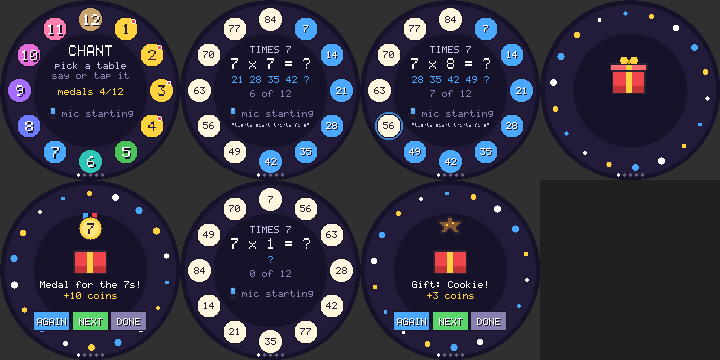
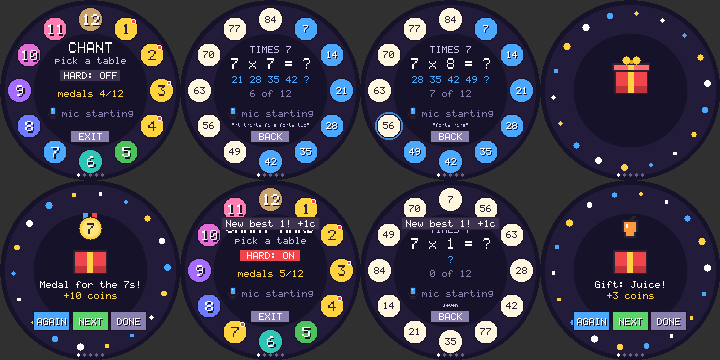
Chant: answers always in order, with a HARD switch that shuffles them; BACK and EXIT buttons

diff --git a/components/orbling/pet_engine.cpp b/components/orbling/pet_engine.cpp
@@ -3663,6 +3663,7 @@ static const int CH_DROP_MS = 600, CH_OPEN_MS = 1300, CH_BUTTONS_MS = 2200;  // 
 static const int CH_BTN_Y = 282, CH_BTN_W = 70, CH_BTN_H = 36;
 static const int CH_BTN_X[3] = {103, 180, 257};  // again, next, done
 static const int CH_MIC_Y = 214;
+static const int CH_QUIT_Y = 272, CH_HARD_Y = 150;  // the exit / back pill, and the hard switch on the picker
 // Treats a gift can hold (a medal comes first, once per table).
 static const uint8_t CH_TREATS[] = {IT_CAKE, IT_JUICE, IT_CANDY, IT_DONUT, IT_SODA, IT_ASTRO, IT_STAR_COOKIE, IT_PIZZA};
 
@@ -3828,7 +3829,7 @@ void PetEngine::chant_begin(int table) {
   ch_ok_ms_ = now_ ? now_ : 1;
   ch_wrong_ = -1;
   for (int k = 0; k < 12; k++) ch_slot_[k] = (uint8_t) (k + 1);
-  if (s_.chant_medals & (1u << (table - 1))) {  // learnt once: shuffle, so the next one has to be remembered
+  if (ch_hard_) {  // hard: shuffled, so the next one has to be remembered
     for (int k = 11; k > 0; k--) {
       int j = (int) (rnd() % (uint32_t) (k + 1));
       uint8_t t = ch_slot_[k];
@@ -3889,7 +3890,22 @@ void PetEngine::chant_press(int x, int y) {
     show_toast(voice_enabled() ? "Mic on" : "Mic off", 1200);
     return;
   }
+  if (ch_state_ != 2 && abs(x - 180) < 48 && abs(y - CH_QUIT_Y) < 20) {
+    if (ch_state_ == 1) {  // back to the table picker
+      ch_state_ = 0;
+      ch_epoch_++;
+    } else if (run_score_ > 0) {
+      finish_game();  // tables were done: coins and the prize stand
+    } else {
+      overlay_ = OV_NONE;
+    }
+    return;
+  }
   if (ch_state_ == 0) {
+    if (abs(x - 180) < 70 && abs(y - CH_HARD_Y) < 17) {
+      ch_hard_ = !ch_hard_;
+      return;
+    }
     for (int k = 1; k <= 12; k++) {
       int bx, by;
       tt_pos((float) k, bx, by);
@@ -3989,12 +4005,18 @@ void PetEngine::draw_chant(Canvas &c, uint32_t now) {
         circle(c, bx + 15, by - 15, 3, 0xF0454B);
       }
     }
-    text(c, 180, 90, "CHANT", 3, 0xFFFFFF);
-    text(c, 180, 124, "pick a table", 2, 0xC9C2E8, true, false);
-    text(c, 180, 144, "then say it!", 2, 0x8A80B0, true, false);
+    text(c, 180, 84, ch_hard_ ? "CHANT HARD" : "CHANT", 3, 0xFFFFFF);
+    text(c, 180, 114, "pick a table", 2, 0xC9C2E8, true, false);
+    // The hard switch: answers in order (off) or shuffled round the circle (on).
+    rect(c, 180 - 62, CH_HARD_Y - 13, 124, 26, 0x1A1426);
+    rect(c, 180 - 60, CH_HARD_Y - 11, 120, 22, ch_hard_ ? 0xF0454B : 0x3D3350);
+    text(c, 180, CH_HARD_Y - 7, ch_hard_ ? "HARD: ON" : "HARD: OFF", 2, 0xFFFFFF, true, false);
     snprintf(buf, sizeof(buf), "medals %d/12", chant_medals());
-    text(c, 180, 176, buf, 2, 0xFFD23F, true, false);
+    text(c, 180, 180, buf, 2, 0xFFD23F, true, false);
     draw_mic_status(c, now, CH_MIC_Y);
+    rect(c, 180 - 40, CH_QUIT_Y - 13, 80, 26, 0x1A1426);
+    rect(c, 180 - 38, CH_QUIT_Y - 11, 76, 22, 0x8A80B0);
+    text(c, 180, CH_QUIT_Y - 7, "EXIT", 2, 0xFFFFFF, true, false);
     return;
   }
 
@@ -4039,6 +4061,9 @@ void PetEngine::draw_chant(Canvas &c, uint32_t now) {
     snprintf(buf, sizeof(buf), "%d of 12", ch_next_);
     text(c, 180, 180, buf, 2, 0x8A80B0, true, false);
     draw_mic_status(c, now, CH_MIC_Y);
+    rect(c, 180 - 40, CH_QUIT_Y - 13, 80, 26, 0x1A1426);
+    rect(c, 180 - 38, CH_QUIT_Y - 11, 76, 22, 0x8A80B0);
+    text(c, 180, CH_QUIT_Y - 7, "BACK", 2, 0xFFFFFF, true, false);
     return;
   }
 

diff --git a/components/orbling/pet_engine.h b/components/orbling/pet_engine.h
@@ -439,6 +439,7 @@ class PetEngine {
   int8_t ch_wrong_{-1};       // the answer that was tapped out of turn (it wiggles)
   int8_t ch_gift_item_{-1};   // a treat in the gift, or -1 for the table's medal
   uint8_t ch_epoch_{0};
+  bool ch_hard_{false};       // Chant hard: the answers are shuffled round the circle
   bool ch_champion_{false};   // this gift completed all twelve medals
   uint8_t ch_gift_coins_{0};
   uint32_t ch_wrong_ms_{0}, ch_ok_ms_{0}, ch_gift_ms_{0}, ch_heard_ms_{0}, ch_err_until_{0};

diff --git a/sim/sim.cpp b/sim/sim.cpp
@@ -805,7 +805,11 @@ int main(int argc, char **argv) {
       printf("chant: no 7 medal\n");
       abort();
     }
-    tap(e, 103, 282, now);  // AGAIN: now with a medal, so shuffled
+    tap(e, 257, 282, now);  // DONE, then back in with HARD on: shuffled
+    e.start_game(GAME_CHANT);
+    tap(e, 180, 150, now);  // the hard switch
+    shot(e, "22f0-chant-hard-pick", now);
+    e.voice_heard("seven");
     now += 400;
     e.loop(now);
     shot(e, "22f-chant-shuffled", now);

diff --git a/README.md b/README.md
@@ -133,9 +133,8 @@ energy, Jump and Catch burn a little weight, and each game keeps its best score.
   answers sit round a circle. Tap them in order, 7, 14, 21..., or just **say them**: "seven, fourteen,
   twenty-one" (or the whole table in one breath) and each one lights up as it is heard. The middle shows the fact
   to come ("7 x 5 = ?") and the chant so far. It is not meant to be hard: nothing is lost for a wrong tap (that
-  bubble just wiggles), and if you get stuck the next answer glows after 4 seconds. The first time through a
-  table its answers go round in order like a clock; once you have its medal they are shuffled, so you have to
-  know what comes next.
+  bubble just wiggles), and if you get stuck the next answer glows after 4 seconds. The answers always go round in order like a clock; the **HARD** switch on the table picker shuffles them, so you
+  have to know what comes next. **BACK** (while chanting) returns to the picker and **EXIT** leaves the game.
 
   Every table finished brings a **gift**: a box drops in, shakes and pops open. The first time it is that table's
   **medal** (+10 coins and a little Smarts); after that a surprise treat for the pet (+3 coins). All twelve
